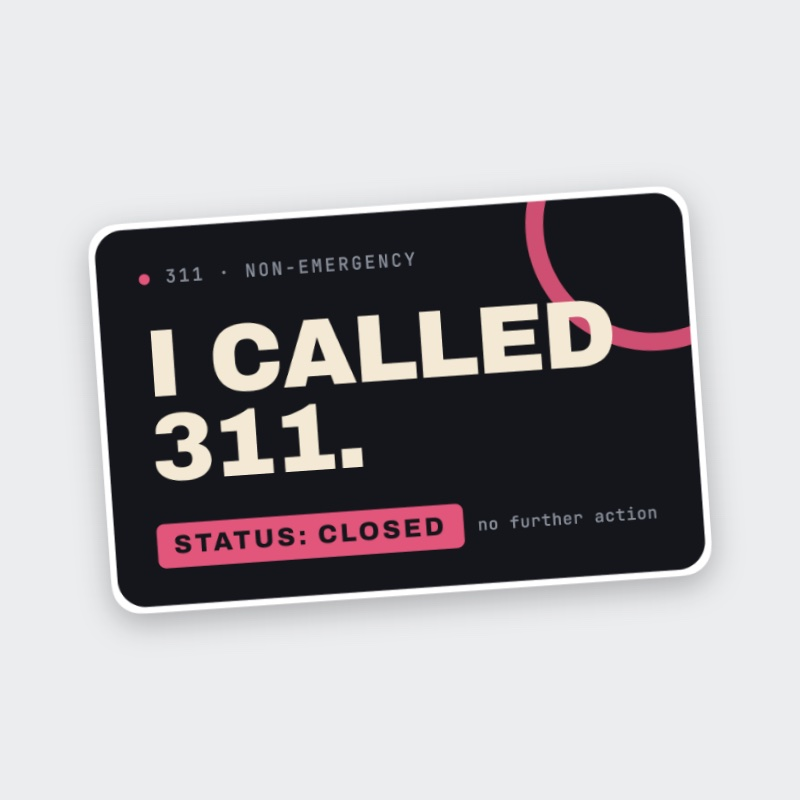
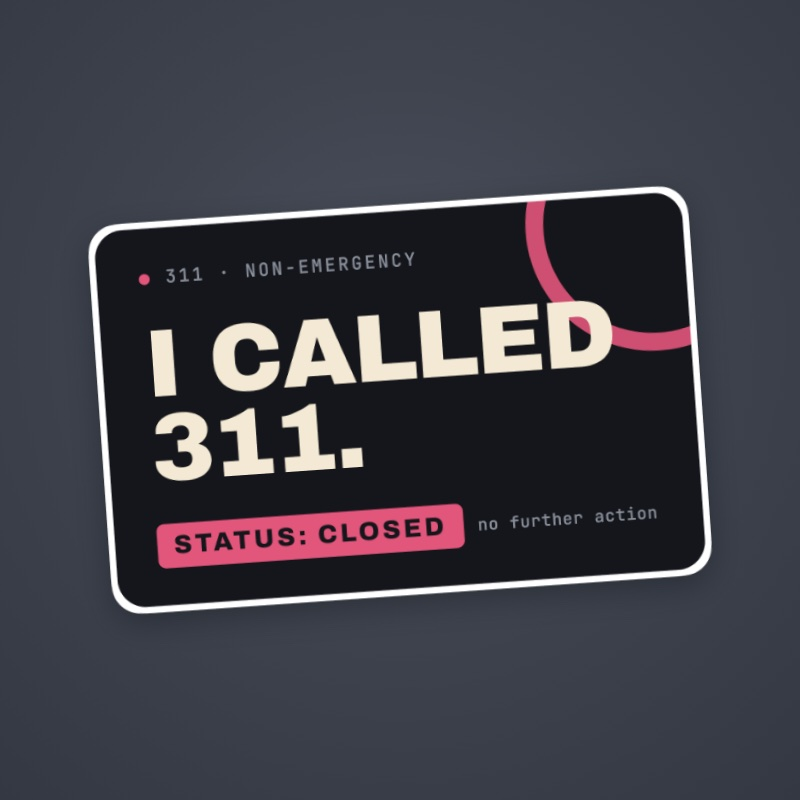
Shop: slate product photos, seamless featured card, Banging/Pounding as a fitted V-neck

diff --git a/docs/shop.js b/docs/shop.js
@@ -3,21 +3,22 @@
 // product page; if it's left empty the button opens the whole Redbubble shop. Photos live in /shop/img/ (made by brand/merch/make_tees.py).
 (function () {
   const SHOP = "https://citymoods311.redbubble.com/";
-  // Shirts link to the black Classic T-Shirt ("/lrcw"); the sticker links to its sticker page.
+  // Most shirts link to the black Classic T-Shirt ("/lrcw"); Banging/Pounding links to the Fitted V-Neck; the sticker to its
+  // sticker page. `img` overrides the photo file name (default: slug).
   const RB = "https://www.redbubble.com/i/";
   const PRODUCTS = [
     { slug: "retro-logo", title: "CityMoods Retro Night Skyline", kind: "Logo tee",
       blurb: "A night skyline, a crescent moon and our name in big 70s letters. The one to wear if you just like the maps.",
-      featured: true, url: RB + "t-shirt/CityMoods-Retro-Night-Skyline-70s-City-Lights-Logo-by-citymoods311/185968890/lrcw" },
+      featured: true, img: "retro-logo-tall", url: RB + "t-shirt/CityMoods-Retro-Night-Skyline-70s-City-Lights-Logo-by-citymoods311/185968890/lrcw" },
     { slug: "tree-trim", title: "Tree Trim Request (No Longer Being Accepted)", kind: "Chicago 311",
       blurb: "A real Chicago request type the city retired. People still pick it hundreds of times a week.",
       url: RB + "t-shirt/Tree-Trim-Request-No-Longer-Being-Accepted-Chicago-311-by-citymoods311/185968824/lrcw" },
     { slug: "alarm", title: "Alarm That Won't Stop", kind: "NYC 311",
       blurb: "Our plain-English name for NYC's real Noise › Alarm › Chronic complaint. Every New Yorker has filed it in their head.",
       url: RB + "t-shirt/Alarm-That-Won-t-Stop-NYC-311-Noise-Complaint-by-citymoods311/185968674/lrcw" },
-    { slug: "banging", title: "Banging/Pounding", kind: "NYC 311",
+    { slug: "banging", img: "banging-vneck", title: "Banging/Pounding", kind: "NYC 311 · Fitted V-neck",
       blurb: "A real NYC noise complaint. It's about the neighbors. Probably.",
-      url: RB + "t-shirt/Banging-Pounding-NYC-311-Noise-Complaint-by-citymoods311/185968743/lrcw" },
+      url: RB + "t-shirt/Banging-Pounding-NYC-311-Noise-Complaint-by-citymoods311/185968743/dpsq" },
     { slug: "sticker-i-called-311", title: "I Called 311. Status: Closed.", kind: "Sticker",
       blurb: "For anyone who's filed a 311 request and watched it get marked closed. Laptops, water bottles, bike helmets.",
       cta: "See the sticker on Redbubble",
@@ -30,7 +31,7 @@
     const url = p.url || SHOP;
     return `<article class="product${p.featured ? " featured" : ""}">
   <a class="ph" href="${esc(url)}" target="_blank" rel="noopener" data-goatcounter-click="shop-${esc(p.slug)}" data-goatcounter-title="${esc(p.title)}" tabindex="-1" aria-hidden="true">
-    <img src="/shop/img/${esc(p.slug)}.jpg?v=1" alt="" width="800" height="800" loading="lazy"></a>
+    <img src="/shop/img/${esc(p.img || p.slug)}.jpg?v=2" alt="" width="800" height="800" loading="lazy"></a>
   <div class="pinfo">
     <p class="kind">${esc(p.kind)}</p>
     <h2>${esc(p.title)}</h2>

diff --git a/docs/shop/index.html b/docs/shop/index.html
@@ -10,13 +10,13 @@
 <meta property="og:title" content="The CityMoods Shop">
 <meta property="og:description" content="Shirts made from real 311 menu options, plus our retro logo. Printed and shipped by Redbubble.">
 <meta property="og:url" content="https://citymoods311.com/shop/">
-<meta property="og:image" content="https://citymoods311.com/shop/img/retro-logo.jpg?v=1">
+<meta property="og:image" content="https://citymoods311.com/shop/img/retro-logo.jpg?v=2">
 <meta name="twitter:card" content="summary_large_image">
 <meta name="theme-color" content="#14161B">
 <link rel="icon" href="/favicon.svg" type="image/svg+xml">
 <link rel="icon" href="/favicon-32.png" sizes="32x32" type="image/png">
 <link rel="apple-touch-icon" href="/apple-touch-icon.png">
-<link rel="stylesheet" href="/style.css?v=202611230100">
+<link rel="stylesheet" href="/style.css?v=202611230300">
 <script data-goatcounter="https://citymoods.goatcounter.com/count" async src="https://gc.zgo.at/count.js"></script>
 </head>
 <body>
@@ -42,7 +42,7 @@
   <p><a href="/privacy.html">Privacy</a> · <a href="/data/">Data downloads</a> · <a href="https://citymoods311.redbubble.com/" target="_blank" rel="noopener">CityMoods on Redbubble</a> · <a href="https://ko-fi.com/citymoods311" target="_blank" rel="noopener">Support CityMoods</a></p>
 </footer>
 
-<script src="/shop.js?v=202611230200"></script>
+<script src="/shop.js?v=202611230400"></script>
 <script src="/menu.js?v=202611230100"></script>
 </body>
 </html>

diff --git a/docs/style.css b/docs/style.css
@@ -527,7 +527,7 @@ a.brand img { display: block; }
 .shop-sub { color: var(--muted); max-width: 680px; margin: 0 0 26px; }
 .shop-grid { display: grid; grid-template-columns: repeat(3, minmax(0, 1fr)); gap: 18px; }
 .product { background: var(--panel); border: 1px solid var(--line); border-radius: 16px; overflow: hidden; display: flex; flex-direction: column; }
-.product .ph { display: block; background: #ECEDEF; }
+.product .ph { display: block; background: #3E424D; }   /* matches the edge of the slate product photos */
 .product .ph img { display: block; width: 100%; height: auto; aspect-ratio: 1; transition: transform .25s ease; }
 @media (hover: hover) { .product:hover .ph img { transform: scale(1.03); } }
 .product .pinfo { padding: 14px 16px 18px; display: flex; flex-direction: column; flex: 1; }
@@ -555,3 +555,4 @@ a.brand img { display: block; }
   .product.featured h2 { font-size: 22px; }
 }
 .product.featured .ph { display: flex; align-items: center; }
+.product.featured .ph img { height: 100%; aspect-ratio: auto; object-fit: cover; }   /* tall photo fills the column */
